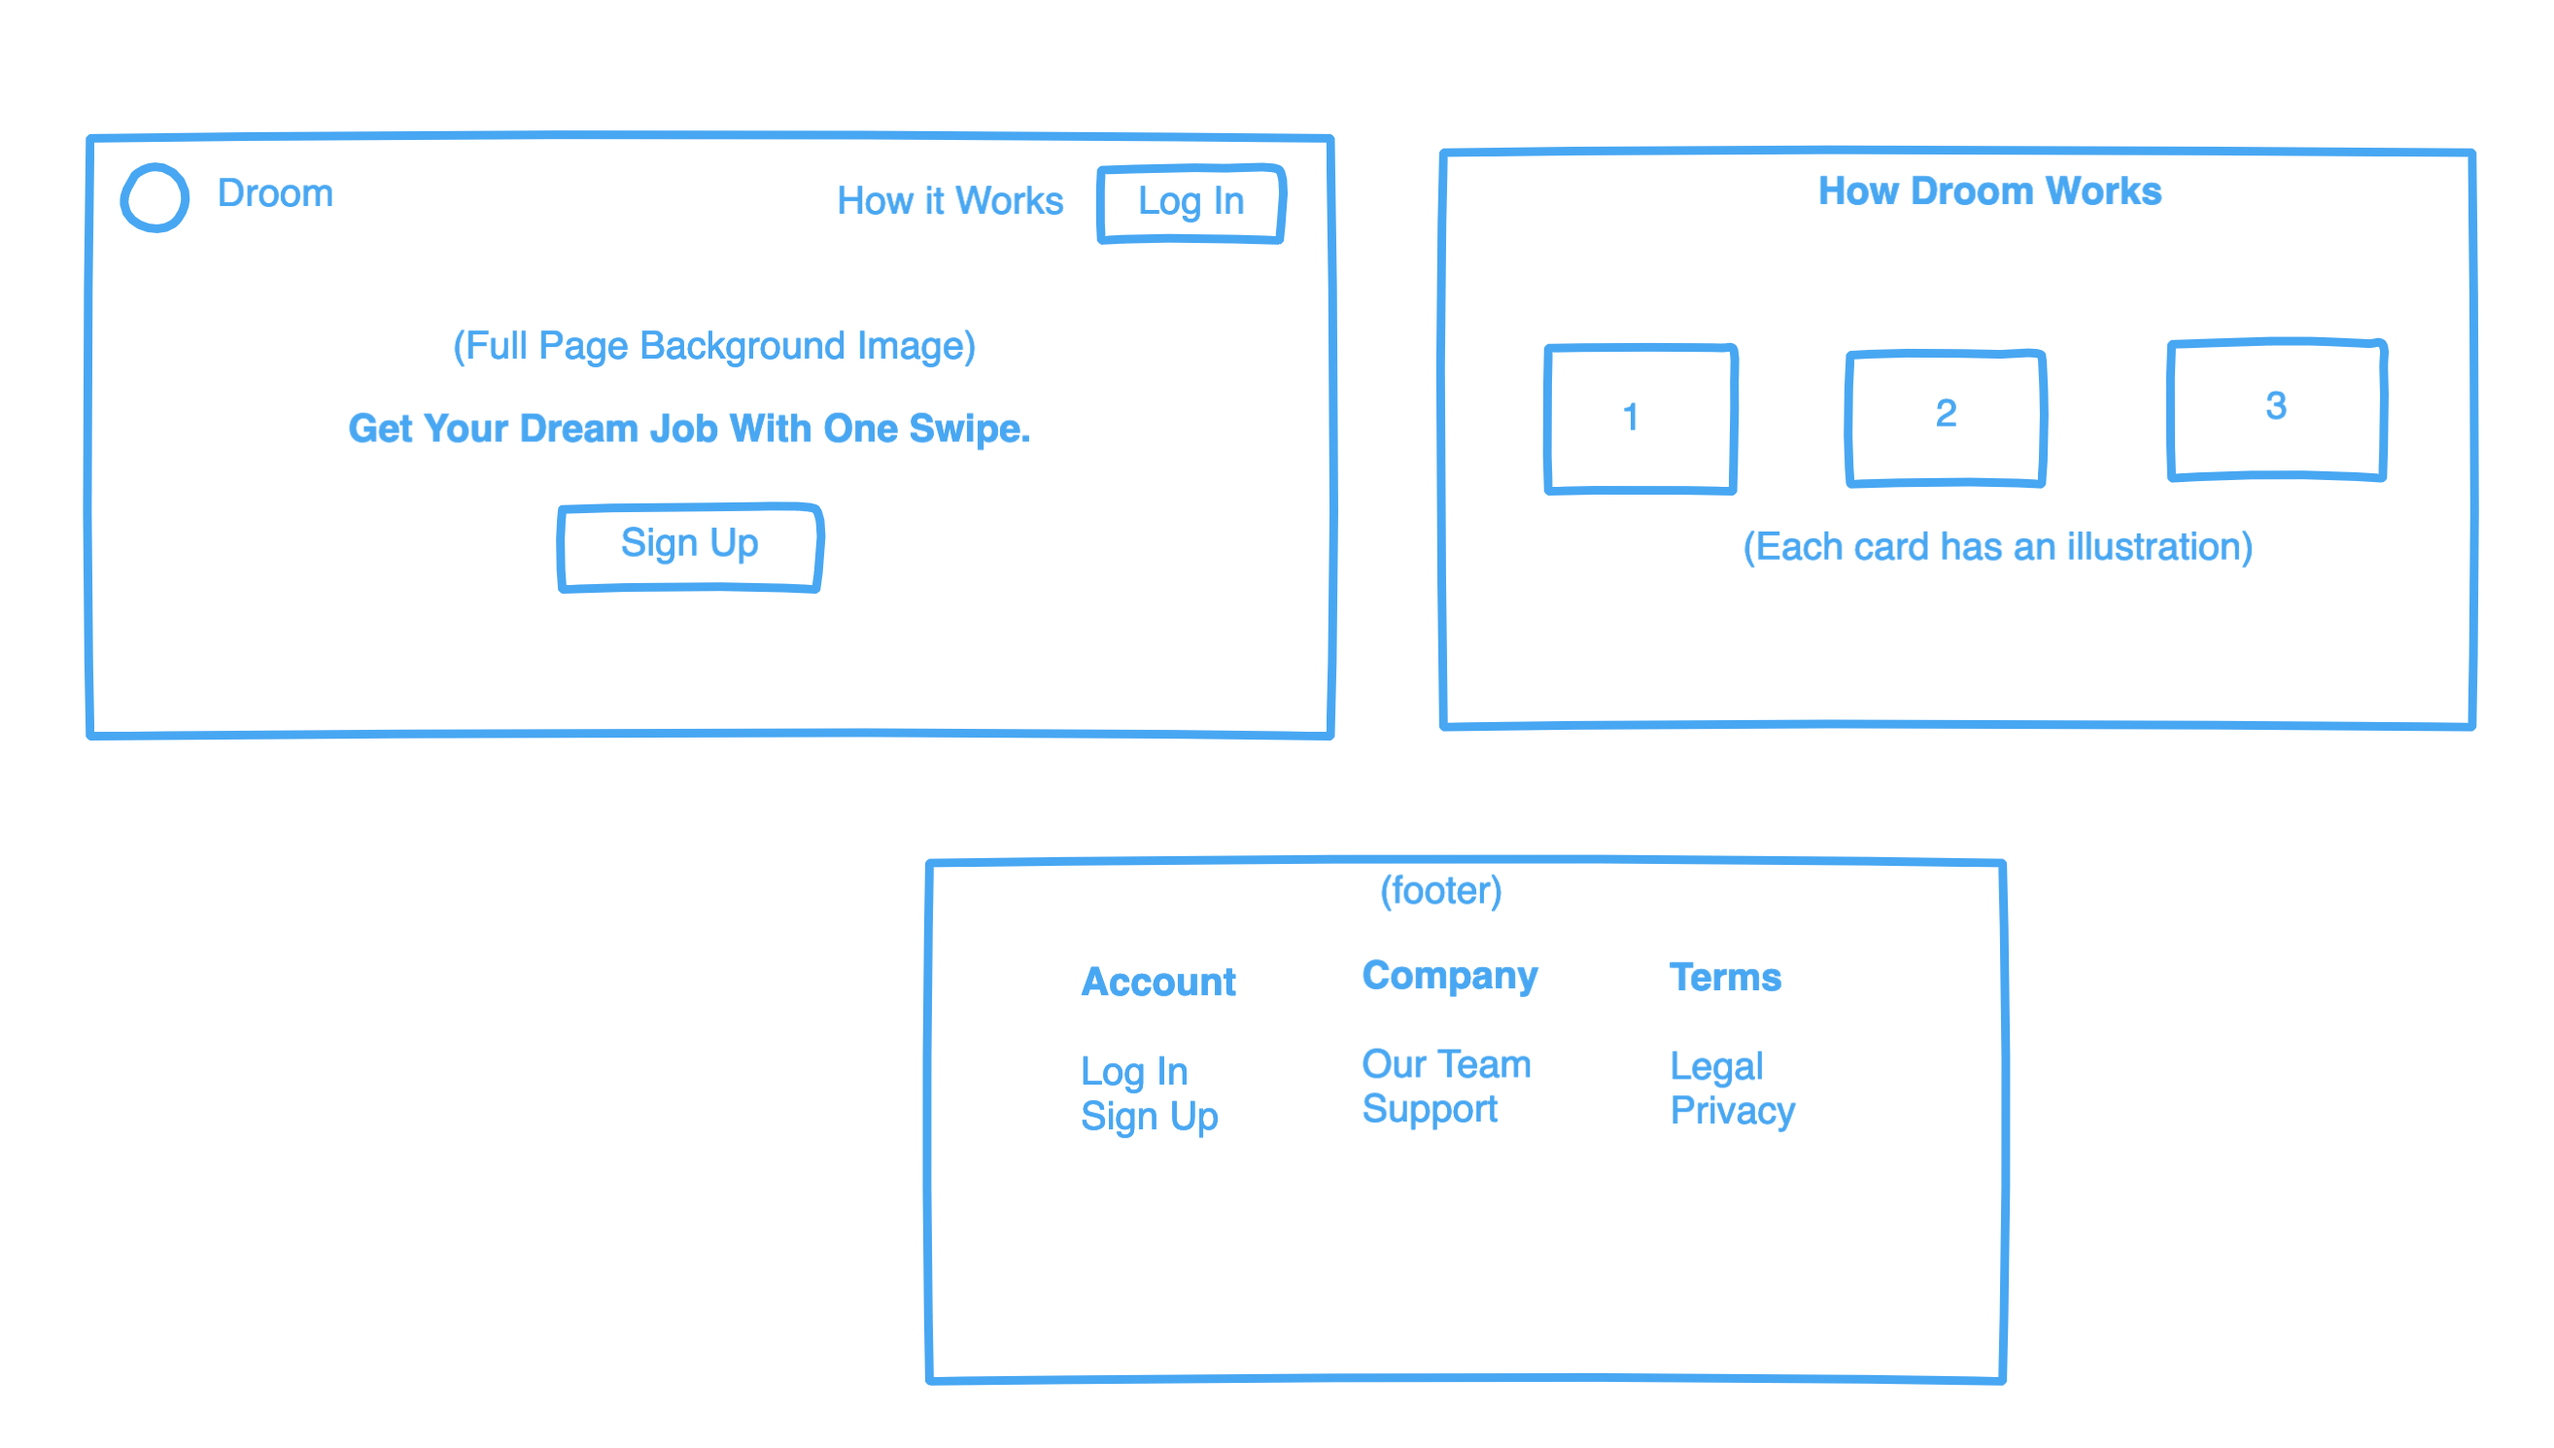
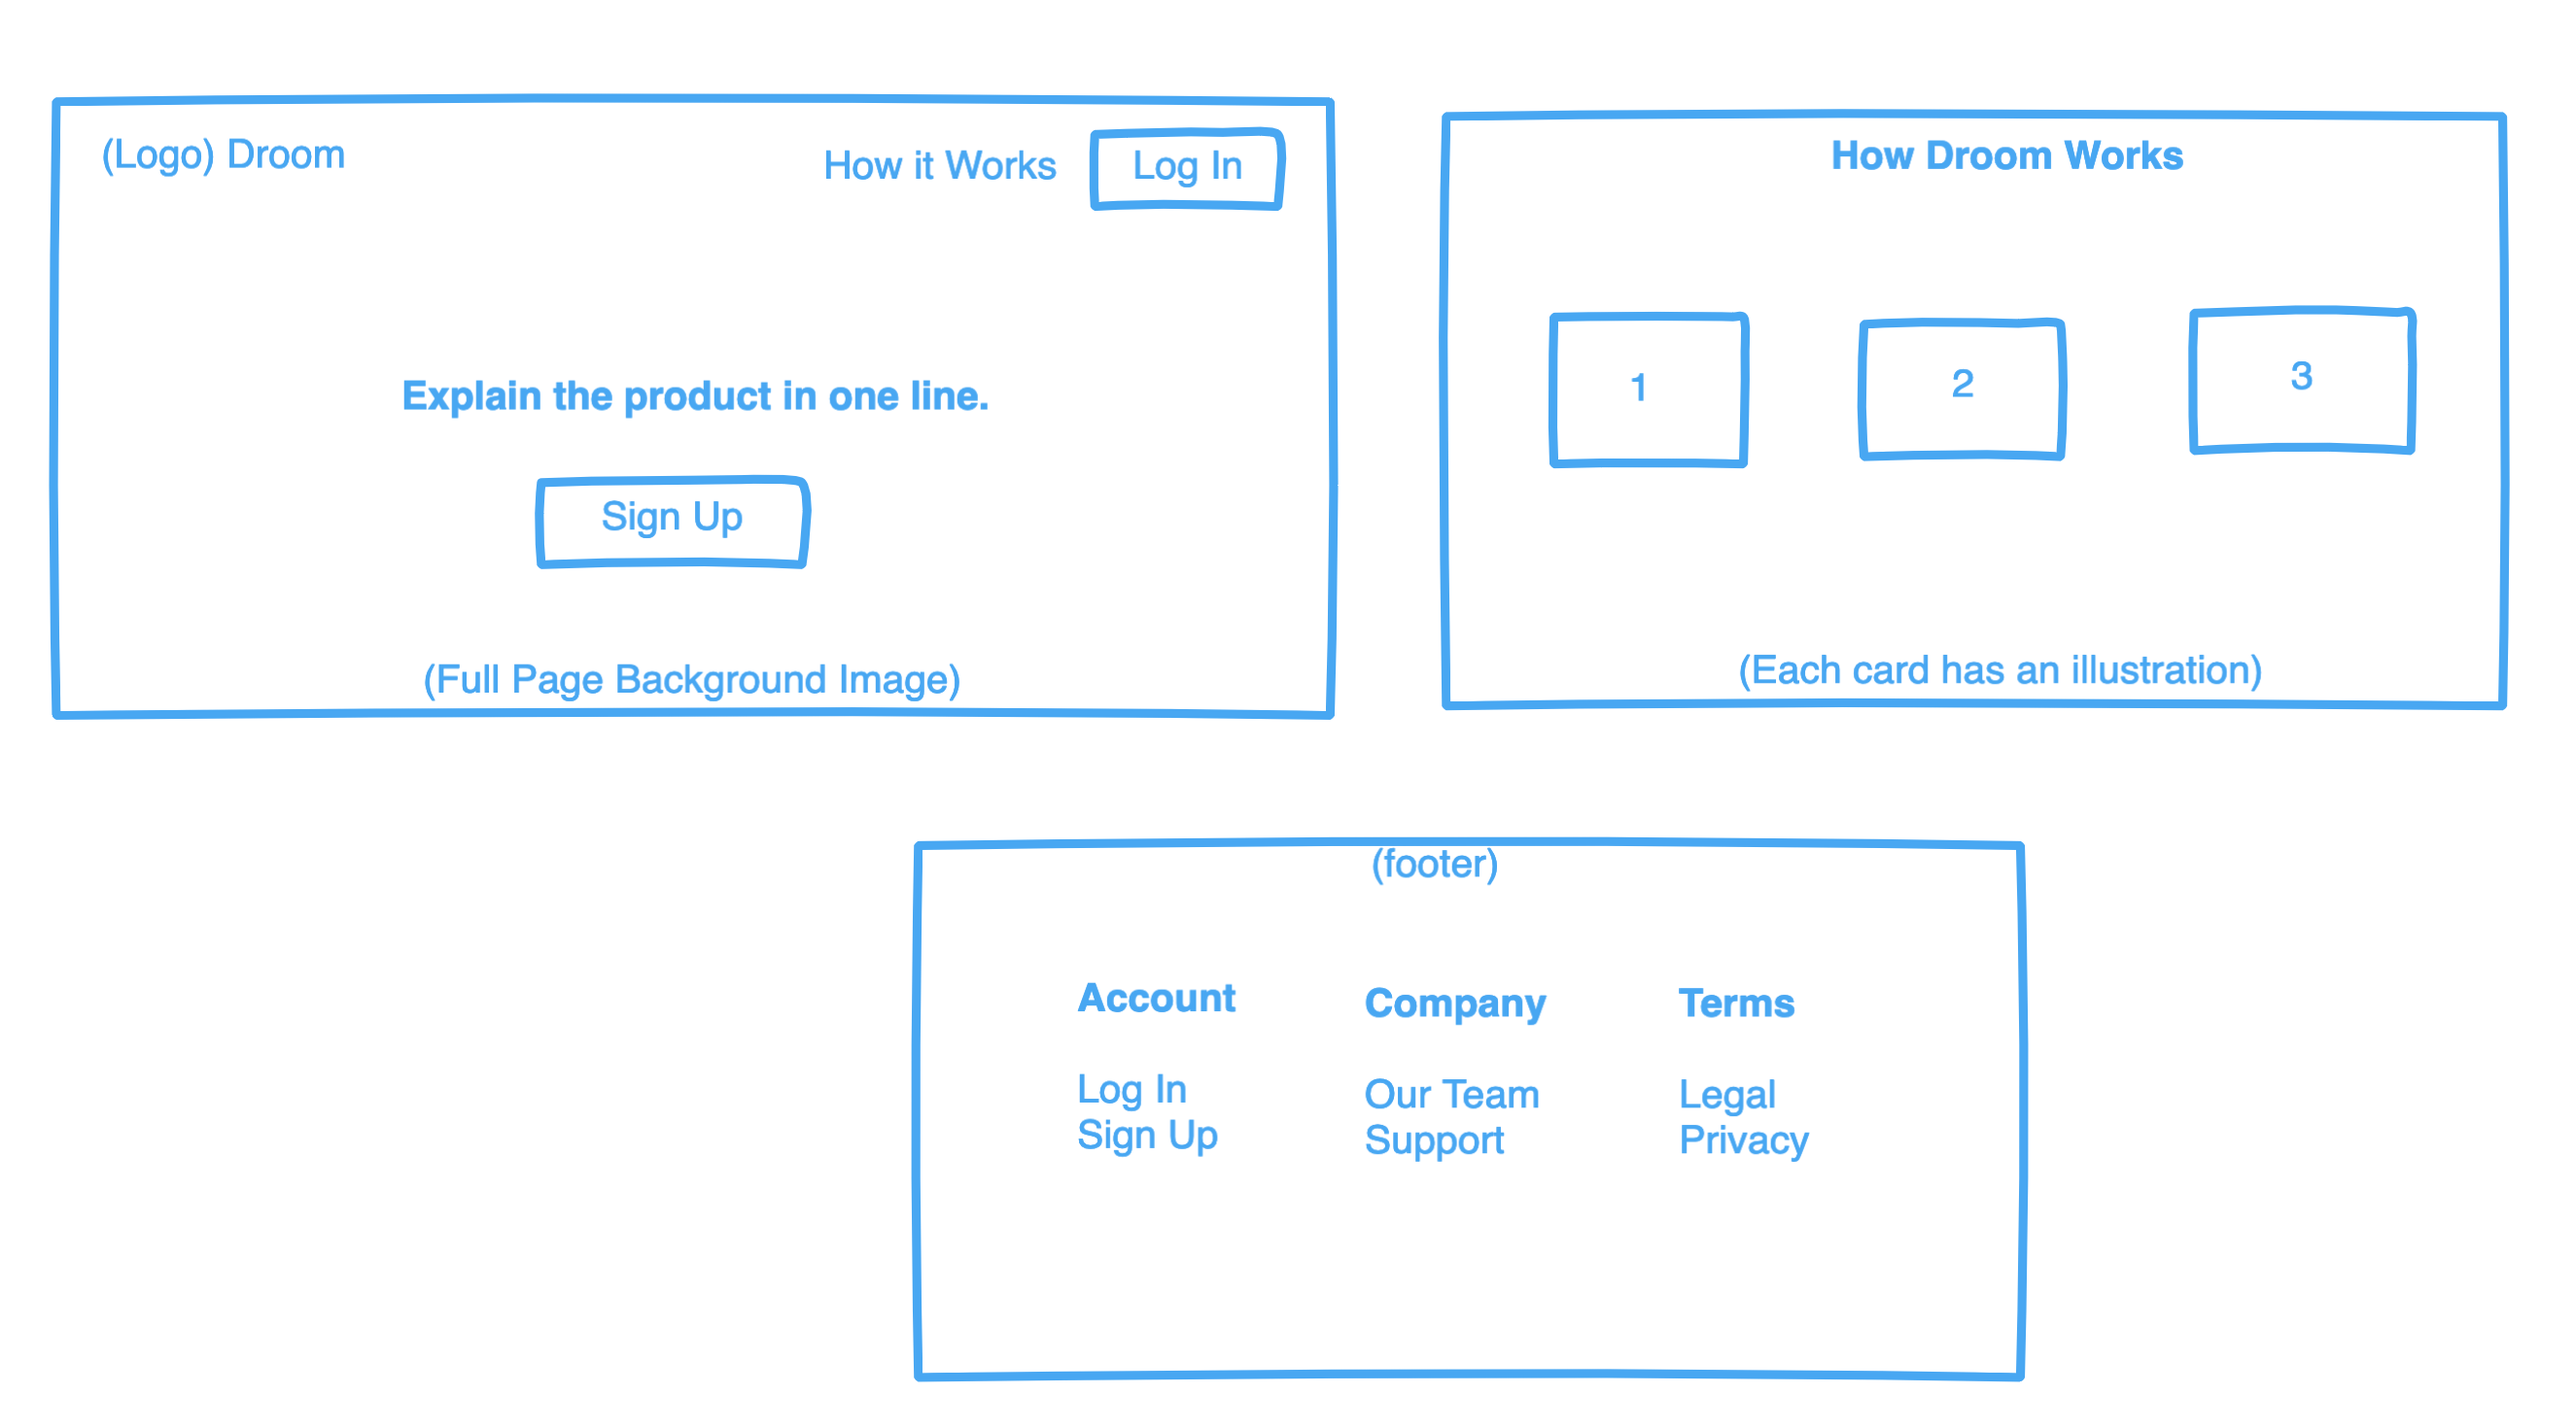
sketch 'How it Works' section

diff --git a/index.html b/index.html
@@ -19,19 +19,61 @@
   </head>
 
   <body>
+    <!-- Banner and CTA -->
     <section class="banner">
       <header>
         <h1>Droom</h1>
-        <section class="header-right">
+        <div>
           <a href="#">How it Works</a>
           <button type="button">Log In</button>
-        </section>
+        </div>
       </header>
 
       <section class="cta">
-        <h1>Find your dream team with one swipe.</h1>
+        <h1>Find your dream team with one swipe</h1>
         <button type="button">Sign Up</button>
       </section>
     </section>
+
+    <!-- How Droom Works -->
+    <section class="how-it-works">
+      <h1>How Droom Works</h1>
+
+      <div>
+        <section>
+          <h1>1. Search and get matched.</h1>
+          <img src="images/skills-list.png" alt="Various product logos" />
+          <p>
+            Search by your interests and get matched with those who have similar
+            interests.
+          </p>
+        </section>
+
+        <section>
+          <h1>2. Decide if you like your match.</h1>
+          <img
+            src="images/swipe-profiles.png"
+            alt="Arrows swiping right or left on a device"
+          />
+          <p>
+            Swipe to the right to move forward with a match, or swipe to the
+            left to decline.
+          </p>
+        </section>
+
+        <section>
+          <h1>3. Interview and hire.</h1>
+          <img
+            src="images/handshake.png"
+            alt="Two hands shaking over a contract"
+          />
+          <p>
+            Interview who you like and close the deal.
+          </p>
+        </section>
+      </div>
+    </section>
+
+    <!-- Footer -->
   </body>
 </html>

diff --git a/styles/css/index.css b/styles/css/index.css
@@ -17,14 +17,14 @@ html body {
   justify-content: space-between;
   align-items: center;
 }
-.banner header .header-right {
+.banner header div {
   display: flex;
   flex-direction: row;
   justify-content: space-evenly;
   align-items: center;
   width: 20%;
 }
-.banner header .header-right a {
+.banner header div a {
   text-decoration: none;
   color: white;
 }
@@ -36,11 +36,38 @@ html body {
   height: 70%;
 }
 .banner .cta h1 {
-  text-transform: capitalize;
   font-size: 3rem;
 }
 .banner button {
   cursor: pointer;
+}
+.how-it-works {
+  display: flex;
+  flex-direction: column;
+  justify-content: center;
+  align-items: center;
+  height: 600px;
+}
+.how-it-works div {
+  display: flex;
+  flex-direction: row;
+  justify-content: center;
+  align-items: center;
+}
+.how-it-works div section {
+  display: flex;
+  flex-direction: column;
+  justify-content: space-between;
+  align-items: center;
+  border: 1px solid black;
+  height: 300px;
+  width: 300px;
+  margin: 20px;
+  padding: 20px;
+}
+.how-it-works div section img {
+  height: 150px;
+  width: 150px;
 }
 .button {
   cursor: pointer;

diff --git a/styles/less/index.less b/styles/less/index.less
@@ -17,9 +17,11 @@ html {
 
   header {
     .flex(row, space-between);
-    .header-right {
+
+    div {
       .flex(row, space-evenly);
       width: 20%;
+      
       a {
         .anchor(white);
       }
@@ -28,11 +30,11 @@ html {
 
   .cta {
     .flex(column, center);
+    height: 70%;
+
     h1 {
-      text-transform: capitalize;
       font-size: 3rem;
     }
-    height: 70%;
   }
 
   button {
@@ -41,6 +43,28 @@ html {
 }
 
 // How It Works
+.how-it-works {
+  .flex(column, center);
+  height: 600px;
+
+  div {
+    .flex(row, center);
+
+    section {
+      .flex(column, space-between);
+      border: 1px solid black;
+      height: 300px;
+      width: 300px;
+      margin: 20px;
+      padding: 20px;
+
+      img {
+        height: 150px;
+        width: 150px;
+      }
+    }
+  }
+}
 
 // Footer
 
